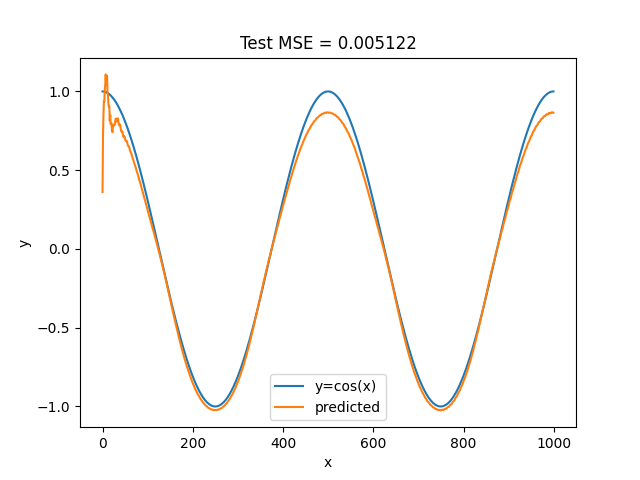
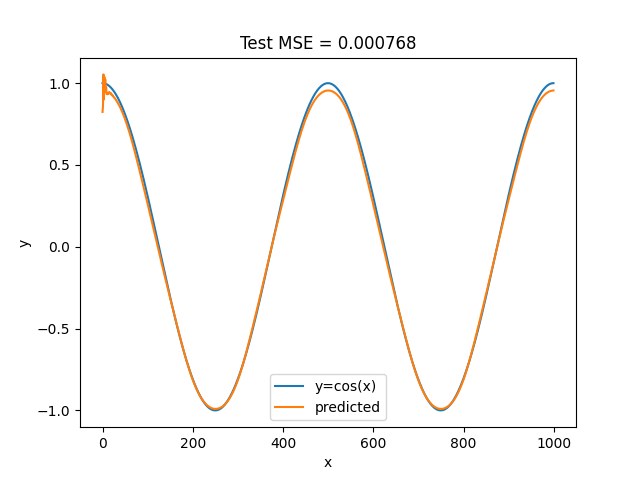
step60

diff --git a/steps/step60.py b/steps/step60.py
@@ -1,0 +1,78 @@
+import os
+import sys
+
+sys.path.append(os.path.join(os.path.dirname(__file__), ".."))
+
+import dezero
+import dezero.layers as L
+import dezero.functions as F
+from dezero import Model
+from dezero import SeqDataLoader
+import matplotlib.pyplot as plt
+import numpy as np
+
+
+class BetterRNN(Model):
+    def __init__(self, hidden_size, out_size):
+        super().__init__()
+        self.rnn = L.LSTM(hidden_size)
+        self.fc = L.Linear(out_size)
+
+    def reset_state(self):
+        self.rnn.reset_state()
+
+    def __call__(self, x):
+        y = self.rnn(x)
+        y = self.fc(y)
+        return y
+
+
+if __name__ == "__main__":
+    max_epoch = 100
+    hidden_size = 100
+    bptt_length = 30
+    batch_size = 30
+
+    train_set = dezero.datasets.SinCurve(train=True)
+    dataloader = SeqDataLoader(train_set, batch_size=batch_size)
+    seqlen = len(train_set)
+
+    model = BetterRNN(hidden_size, 1)
+    optimizer = dezero.optimizers.Adam().setup(model)
+
+    for epoch in range(max_epoch):
+        model.reset_state()
+        loss, count = 0, 0
+
+        for x, t in dataloader:
+            y = model(x)
+            loss += F.mean_squared_error(y, t)
+            count += 1
+
+            if count % bptt_length == 0 or count == seqlen:
+                # dezero.utils.plot_dot_graph(loss)
+                model.cleargrads()
+                loss.backward()
+                loss.unchain_backward()
+                optimizer.update()
+        avg_loss = float(loss.data) / count
+        print("| epoch %d | loss %f" % (epoch + 1, avg_loss))
+
+    xs = np.cos(np.linspace(0, 4 * np.pi, 1000))
+    model.reset_state()
+    pred_list = []
+
+    with dezero.no_grad():
+        for x in xs:
+            x = np.array(x).reshape(1, 1)
+            y = model(x)
+            pred_list.append(float(y.data))
+    test_loss = ((xs - np.array(pred_list)) ** 2).mean()
+
+    plt.plot(np.arange(len(xs)), xs, label="y=cos(x)")
+    plt.plot(np.arange(len(xs)), pred_list, label="predicted")
+    plt.xlabel("x")
+    plt.ylabel("y")
+    plt.title(f"Test MSE = {test_loss:.6f}")
+    plt.legend()
+    plt.savefig("./cos_60.png")

diff --git a/dezero/layers.py b/dezero/layers.py
@@ -167,6 +167,48 @@ class RNN(Layer):
         if self.h is None:
             h_new = F.tanh(self.x2h(x))
         else:
-            h_new = F.tanh(self.x2h(x)) + self.h2h(self.h)
+            h_new = F.tanh(self.x2h(x) + self.h2h(self.h))
         self.h = h_new
+        return h_new
+
+
+class LSTM(Layer):
+    def __init__(self, hidden_size, in_size=None):
+        super().__init__()
+
+        H, I = hidden_size, in_size
+        self.x2f = Linear(H, in_size=I)
+        self.x2i = Linear(H, in_size=I)
+        self.x2o = Linear(H, in_size=I)
+        self.x2u = Linear(H, in_size=I)
+
+        self.h2f = Linear(H, in_size=H, nobias=True)
+        self.h2i = Linear(H, in_size=H, nobias=True)
+        self.h2o = Linear(H, in_size=H, nobias=True)
+        self.h2u = Linear(H, in_size=H, nobias=True)
+
+        self.reset_state()
+
+    def reset_state(self):
+        self.h = None
+        self.c = None
+
+    def forward(self, x):
+        if self.h is None:
+            f = F.sigmoid(self.x2f(x))
+            i = F.sigmoid(self.x2i(x))
+            o = F.sigmoid(self.x2o(x))
+            u = F.tanh(self.x2u(x))
+        else:
+            f = F.sigmoid(self.x2f(x) + self.h2f(self.h))
+            i = F.sigmoid(self.x2i(x) + self.h2i(self.h))
+            o = F.sigmoid(self.x2o(x) + self.h2o(self.h))
+            u = F.tanh(self.x2u(x) + self.h2u(self.h))
+        if self.c is None:
+            c_new = i * u
+        else:
+            c_new = (f * self.c) + (i * u)
+
+        h_new = o * F.tanh(c_new)
+        self.h, self.c = h_new, c_new
         return h_new

diff --git a/dezero/dataloaders.py b/dezero/dataloaders.py
@@ -47,3 +47,26 @@ class DataLoader:
 
     def to_gpu(self):
         self.gpu = True
+
+
+class SeqDataLoader(DataLoader):
+    def __init__(self, dataset, batch_size, gpu=False):
+        super().__init__(dataset, batch_size, shuffle=False, gpu=gpu)
+
+    def __next__(self):
+        if self.iteration >= self.max_iter:
+            self.reset()
+            raise StopIteration
+
+        jump = self.data_size // self.batch_size
+        batch_index = [
+            (i * jump + self.iteration) % self.data_size for i in range(self.batch_size)
+        ]
+        batch = [self.dataset[i] for i in batch_index]
+
+        xp = cuda.cupy if self.gpu else np
+        x = xp.array([example[0] for example in batch])
+        t = xp.array([example[1] for example in batch])
+
+        self.iteration += 1
+        return x, t

diff --git a/dezero/__init__.py b/dezero/__init__.py
@@ -24,7 +24,7 @@ else:
     from dezero.layers import Layer
     from dezero.models import Model
     from dezero.datasets import Dataset
-    from dezero.dataloaders import DataLoader
+    from dezero.dataloaders import DataLoader, SeqDataLoader
 
     import dezero.datasets
     import dezero.dataloaders
